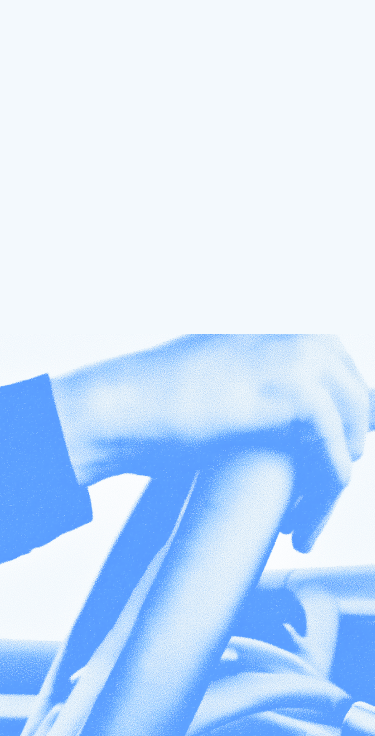
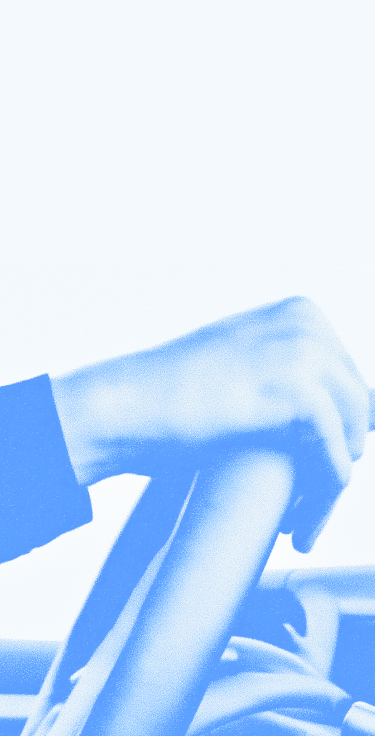
fixes

Changed region(s): [[0.4987, 0.375, 0.8507, 0.4688]]

diff --git a/Template_02/index.html b/Template_02/index.html
@@ -38,7 +38,7 @@
     </div>
 
     <!-- COMPONENT: HERO -->
-    <div class="hero min-h-screen">
+    <div class="hero min-h-[90vh] lg:min-h-screen">
         <div class="hero-content text-center mb-10">
             <div class="flex flex-col items-center">
                 <h1 class="text-88px text-[88px] copernicus letter-5">
@@ -46,7 +46,7 @@
                     <i>Reduce</i> risk. <i>Automate</i><br class="mobile-no-break" />
                     recovery.
                 </h1>
-                <p class="py-6 max-w-[800px] font-medium text-[20px] leading-[150%] para-letter">
+                <p class="px-8 lg:px-0 py-6 max-w-[800px] font-medium text-[14px] lg:text-[20px] leading-[150%] para-letter">
                     Mosadad uses AI to streamline motor claim settlements — in real time, with zero manual processing
                     and full regulatory alignment
                 </p>

diff --git a/Template_02/style.css b/Template_02/style.css
@@ -787,7 +787,7 @@ hr {
   }
   
   .text-88px {
-    font-size: 36px;
+    font-size: 53px;
     line-height: 95%;
     letter-spacing: -1.8px;
   }
